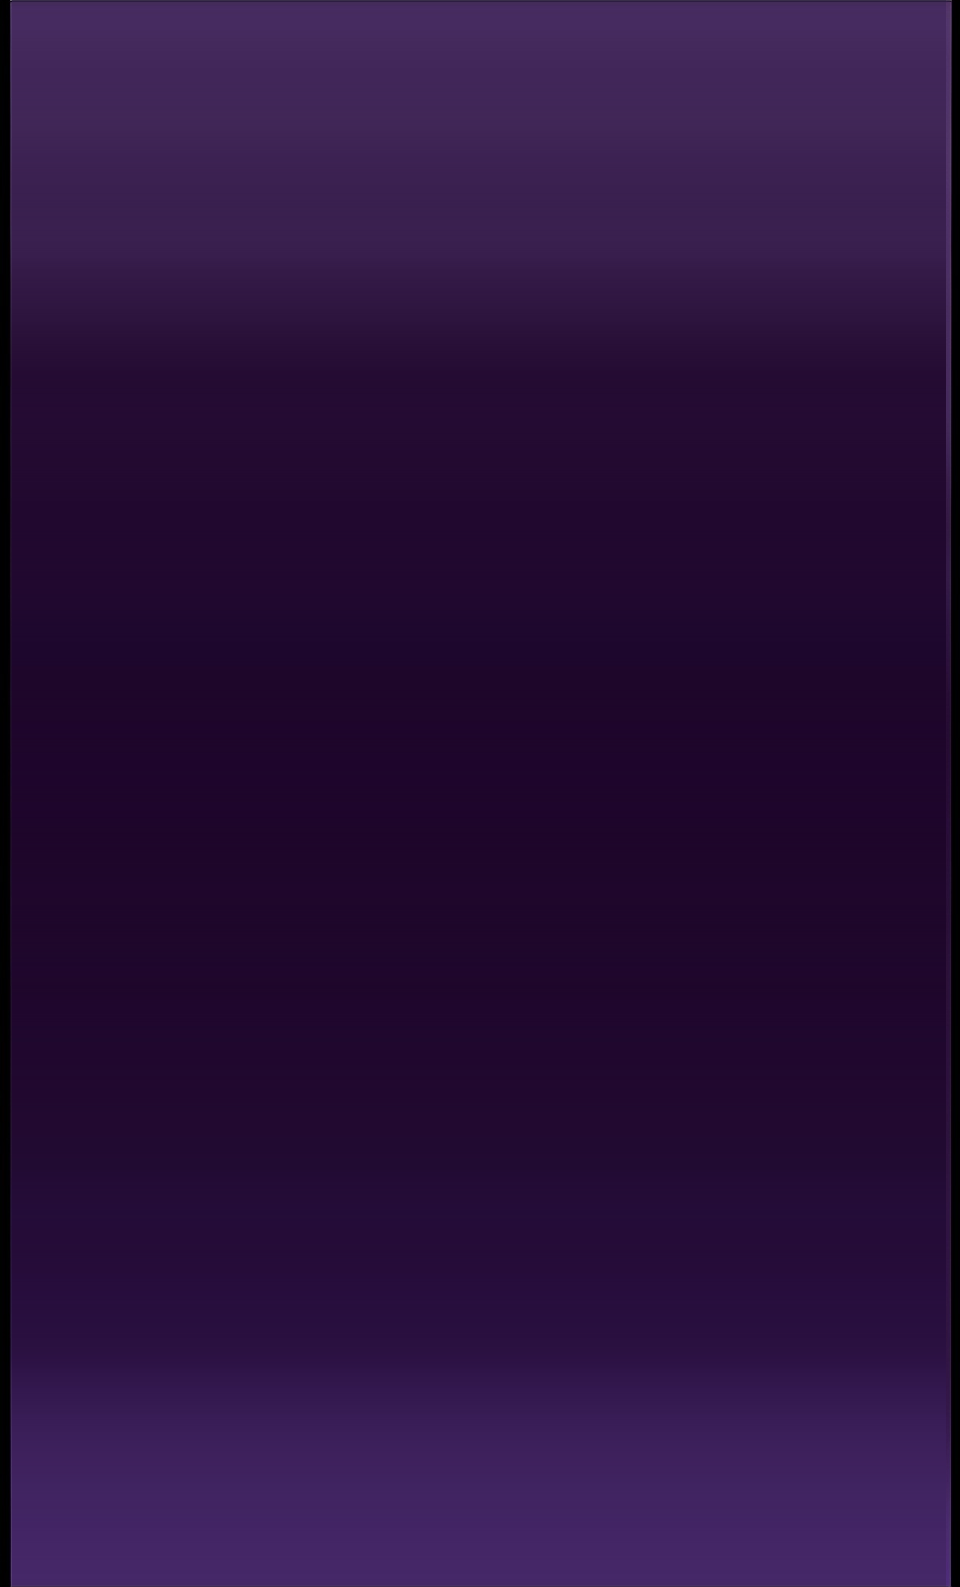
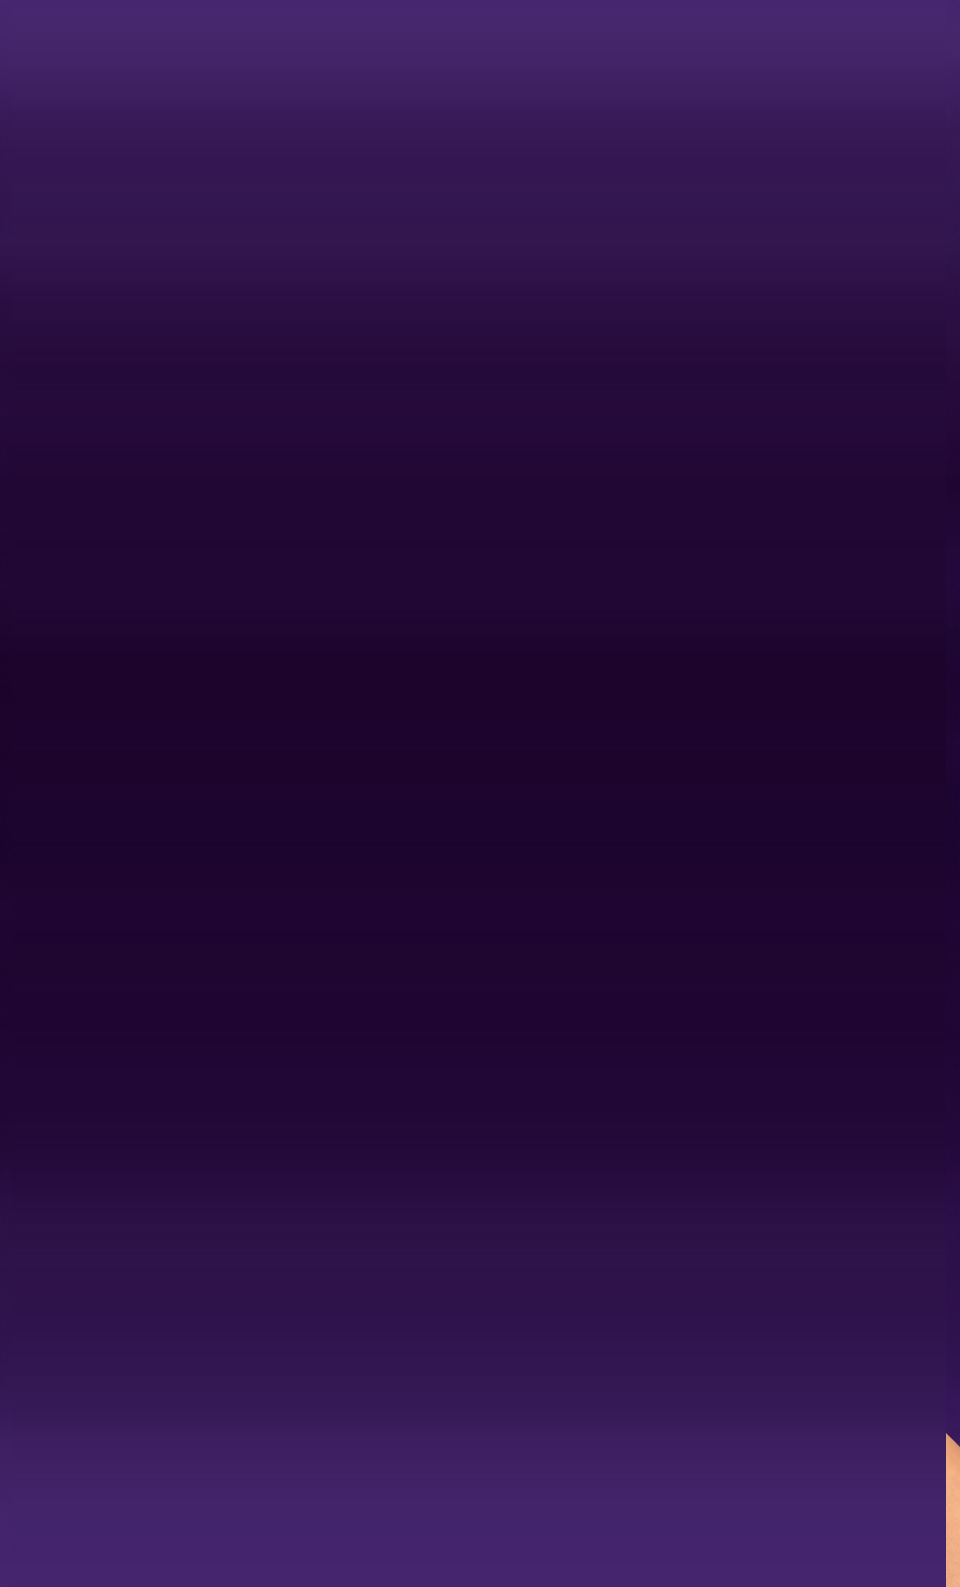
Use the new Nequi art for its section and let each piece be scaled in the editor

Changed region(s): [[0.9688, 0.0, 1.0, 1.0], [0.0, 0.0, 0.0312, 1.0]]

diff --git a/tools/layout_editor/layout_editor.js b/tools/layout_editor/layout_editor.js
@@ -38,6 +38,8 @@ export class LayoutEditor extends HTMLElement {
   #zoom = 0.3;
   static viewport_padding = 32;
   #images = new Map();
+  #handle = null;
+  static scale_step = 1.05;
 
   connectedCallback() {
     this.attachShadow({ mode: 'open' });
@@ -55,6 +57,7 @@ export class LayoutEditor extends HTMLElement {
     stage.style.height = `${sign_size.height}px`;
     for (const part of parts_catalog) stage.append(this.#create_image(part));
     stage.append(this.#create_reference());
+    stage.append(this.#create_handle());
   }
 
   #create_image(part) {
@@ -62,8 +65,17 @@ export class LayoutEditor extends HTMLElement {
     image.src = part.source;
     image.draggable = false;
     image.addEventListener('pointerdown', (event) => this.#start_drag(event, part));
+    image.addEventListener('wheel', (event) => this.#scale_with_wheel(event, part), { passive: false });
     this.#images.set(part.name, image);
     return image;
+  }
+
+  // The corner square that scales the selected piece when dragged.
+  #create_handle() {
+    this.#handle = document.createElement('div');
+    this.#handle.className = 'handle';
+    this.#handle.addEventListener('pointerdown', (event) => this.#start_resize(event));
+    return this.#handle;
   }
 
   // The original image includes the black frame, so it sits above the sign by the frame height.
@@ -103,7 +115,7 @@ export class LayoutEditor extends HTMLElement {
 
   #start_drag(event, part) {
     this.#select(part.name);
-    if (part.is_background && !this.#element('.move_backgrounds').checked) return;
+    if (this.#is_locked(part)) return;
     const placement = this.#layout[part.name];
     const origin = { pointer_x: event.clientX, pointer_y: event.clientY, x: placement.x, y: placement.y };
     const move = (moved) => {
@@ -122,13 +134,53 @@ export class LayoutEditor extends HTMLElement {
     event.preventDefault();
   }
 
+  #start_resize(event) {
+    const placement = this.#layout[this.#selected_name];
+    const natural_width = this.#images.get(this.#selected_name).naturalWidth;
+    const stage = this.#element('.stage');
+    const move = (moved) => {
+      const pointer_x = (moved.clientX - stage.getBoundingClientRect().left) / this.#zoom;
+      placement.scale = Math.max(0.05, Math.round(((pointer_x - placement.x) / natural_width) * 100) / 100);
+      this.#refresh_stage();
+      this.#fill_fields();
+    };
+    const stop = () => {
+      window.removeEventListener('pointermove', move);
+      window.removeEventListener('pointerup', stop);
+      save_layout(this.#layout);
+    };
+    window.addEventListener('pointermove', move);
+    window.addEventListener('pointerup', stop);
+    event.preventDefault();
+    event.stopPropagation();
+  }
+
+  // The wheel scales only the selected piece; anywhere else it keeps scrolling the page.
+  #scale_with_wheel(event, part) {
+    if (part.name !== this.#selected_name || this.#is_locked(part)) return;
+    const factor = event.deltaY < 0 ? LayoutEditor.scale_step : 1 / LayoutEditor.scale_step;
+    this.#edit_selected({ scale: Math.round(this.#layout[part.name].scale * factor * 100) / 100 });
+    event.preventDefault();
+  }
+
+  #is_locked(part) {
+    return part.is_background && !this.#element('.move_backgrounds').checked;
+  }
+
   #nudge(event) {
+    if (event.key === '+' || event.key === '-') return this.#scale_with_key(event);
     const steps = { ArrowLeft: [-1, 0], ArrowRight: [1, 0], ArrowUp: [0, -1], ArrowDown: [0, 1] }[event.key];
     if (!steps || !this.#selected_name) return;
     const distance = event.shiftKey ? 10 : 1;
     const placement = this.#layout[this.#selected_name];
     this.#edit_selected({ x: placement.x + steps[0] * distance, y: placement.y + steps[1] * distance });
     event.preventDefault();
+  }
+
+  #scale_with_key(event) {
+    if (!this.#selected_name) return;
+    const factor = event.key === '+' ? LayoutEditor.scale_step : 1 / LayoutEditor.scale_step;
+    this.#edit_selected({ scale: Math.round(this.#layout[this.#selected_name].scale * factor * 100) / 100 });
   }
 
   #select(name) {
@@ -166,7 +218,20 @@ export class LayoutEditor extends HTMLElement {
     this.#element('.stage').style.transform = `scale(${this.#zoom})`;
     const can_move_backgrounds = this.#element('.move_backgrounds').checked;
     for (const part of parts_catalog) this.#place_image(part, can_move_backgrounds);
+    this.#place_handle();
     this.#images.get('reference').style.display = this.#element('.show_reference').checked ? 'block' : 'none';
+  }
+
+  #place_handle() {
+    const part = parts_catalog.find((candidate) => candidate.name === this.#selected_name);
+    this.#handle.style.display = part && !this.#is_locked(part) ? 'block' : 'none';
+    if (!part) return;
+    const placement = this.#layout[part.name];
+    const image = this.#images.get(part.name);
+    const size = 28 / this.#zoom;
+    this.#handle.style.width = this.#handle.style.height = `${size}px`;
+    this.#handle.style.left = `${placement.x + image.naturalWidth * placement.scale - size / 2}px`;
+    this.#handle.style.top = `${placement.y + image.naturalHeight * placement.scale - size / 2}px`;
   }
 
   #place_image(part, can_move_backgrounds) {

diff --git a/tools/layout_editor/parts_catalog.js b/tools/layout_editor/parts_catalog.js
@@ -15,17 +15,17 @@ const bands = [
   ['06_flecha_inferior', 4082],
 ];
 const pieces = [
-  ['textos', 'texto_recarga', 30, 565],
+  ['textos', 'texto_recarga', 40, 553],
   ['textos', 'texto_corresponsal', 112, 2654],
   ['textos', 'texto_pago_servicios', 123, 3214],
-  ['logos', 'logo_nequi', 60, 790],
+  ['logos', 'logo_nequi', 60, 707],
   ['logos', 'logo_bancolombia', 85, 2464],
   ['logos', 'iconos_servicios', 325, 2923],
   ['logos', 'logo_davivienda', 49, 3685],
   ['logos', 'logo_daviplata', 190, 3976],
   ['fotos', 'facturas', 672, 2878],
   ['fotos', 'tarjeta_bancolombia', 235, 2040],
-  ['fotos', 'celular_nequi', 190, 1176],
+  ['fotos', 'celular_nequi', 150, 996],
   ['fotos', 'celular_davivienda', 605, 3520],
 ];
 

diff --git a/tools/layout_editor/layout_editor.css.js b/tools/layout_editor/layout_editor.css.js
@@ -9,6 +9,7 @@ layout_editor_styles.replaceSync(/* css */ `
   .stage img.in_section { outline: 4px dashed #00a8ff; }
   .stage img.selected { outline: 6px solid #00a8ff; }
   .stage img.locked { cursor: default; }
+  .stage .handle { position: absolute; z-index: 10000; background: #00a8ff; border: 2px solid #fff; cursor: nwse-resize; box-sizing: border-box; }
   .stage img.reference { opacity: 0.45; pointer-events: none; outline: 4px dashed #f0f; }
   .panel { display: flex; flex-direction: column; gap: 10px; padding: 12px; overflow: auto; background: #fff; border-left: 1px solid #ccc; }
   .row { display: flex; gap: 8px; align-items: center; flex-wrap: wrap; }

diff --git a/tools/cut_sign_parts.py b/tools/cut_sign_parts.py
@@ -21,19 +21,21 @@ BAND_NAMES = ["flecha_superior", "nequi", "bancolombia", "servicios_publicos", "
 REBUILT_BANDS = [1, 2, 3, 4]
 # Bands replaced by new art (the originals are kept in fuentes/); cutting must not bring the old one back.
 REPLACED_BANDS = {"flecha_superior", "flecha_inferior"}
+# New art for a whole section: pasted over its band before cutting, so its pieces are cut from the new art.
+NEW_SECTION_ART = {1: "fuentes/02_nequi_nueva.webp"}
 
 # name: (folder, left, top, right, bottom, how it is cut)
 PARTS = {
-    "celular_nequi": ("fotos", 190, 1176, 773, 2017, "grabcut"),
+    "celular_nequi": ("fotos", 150, 996, 960, 2017, "grabcut"),
     "tarjeta_bancolombia": ("fotos", 235, 2040, 750, 2470, "grabcut"),
     "facturas": ("fotos", 672, 2878, 960, 3380, "grabcut"),
     "celular_davivienda": ("fotos", 605, 3520, 960, 3950, "grabcut_sin_amarillo"),
-    "logo_nequi": ("logos", 60, 790, 905, 1058, "grabcut"),
+    "logo_nequi": ("logos", 60, 707, 900, 980, "grabcut"),
     "logo_bancolombia": ("logos", 85, 2464, 892, 2621, "key"),
     "iconos_servicios": ("logos", 325, 2923, 616, 3208, "key"),
     "logo_davivienda": ("logos", 49, 3685, 587, 3943, "opaque"),
     "logo_daviplata": ("logos", 190, 3976, 780, 4122, "key"),
-    "texto_recarga": ("textos", 30, 565, 930, 665, "key"),
+    "texto_recarga": ("textos", 40, 553, 930, 665, "key"),
     "texto_corresponsal": ("textos", 112, 2654, 862, 2834, "key"),
     "texto_pago_servicios": ("textos", 123, 3214, 847, 3606, "key"),
 }
@@ -46,8 +48,16 @@ SURE_BACKGROUND_DISTANCE, PROBABLE_FOREGROUND_DISTANCE, SURE_FOREGROUND_DISTANCE
 
 class SignPartCutter:
     def __init__(self, project_root: Path):
-        self.source = np.asarray(Image.open(project_root / SOURCE).convert("RGB"))
         self.output = project_root / OUTPUT
+        self.source = self._source_with_new_art(project_root)
+
+    def _source_with_new_art(self, project_root: Path) -> np.ndarray:
+        source = Image.open(project_root / SOURCE).convert("RGB")
+        for index, art_path in NEW_SECTION_ART.items():
+            top, bottom = self._band_rows(index)
+            art = Image.open(self.output / art_path).convert("RGB")
+            source.paste(art.resize((source.width, bottom - top), Image.LANCZOS), (0, top))
+        return np.asarray(source)
 
     def cut_all(self) -> None:
         backgrounds = self._rebuild_backgrounds()
